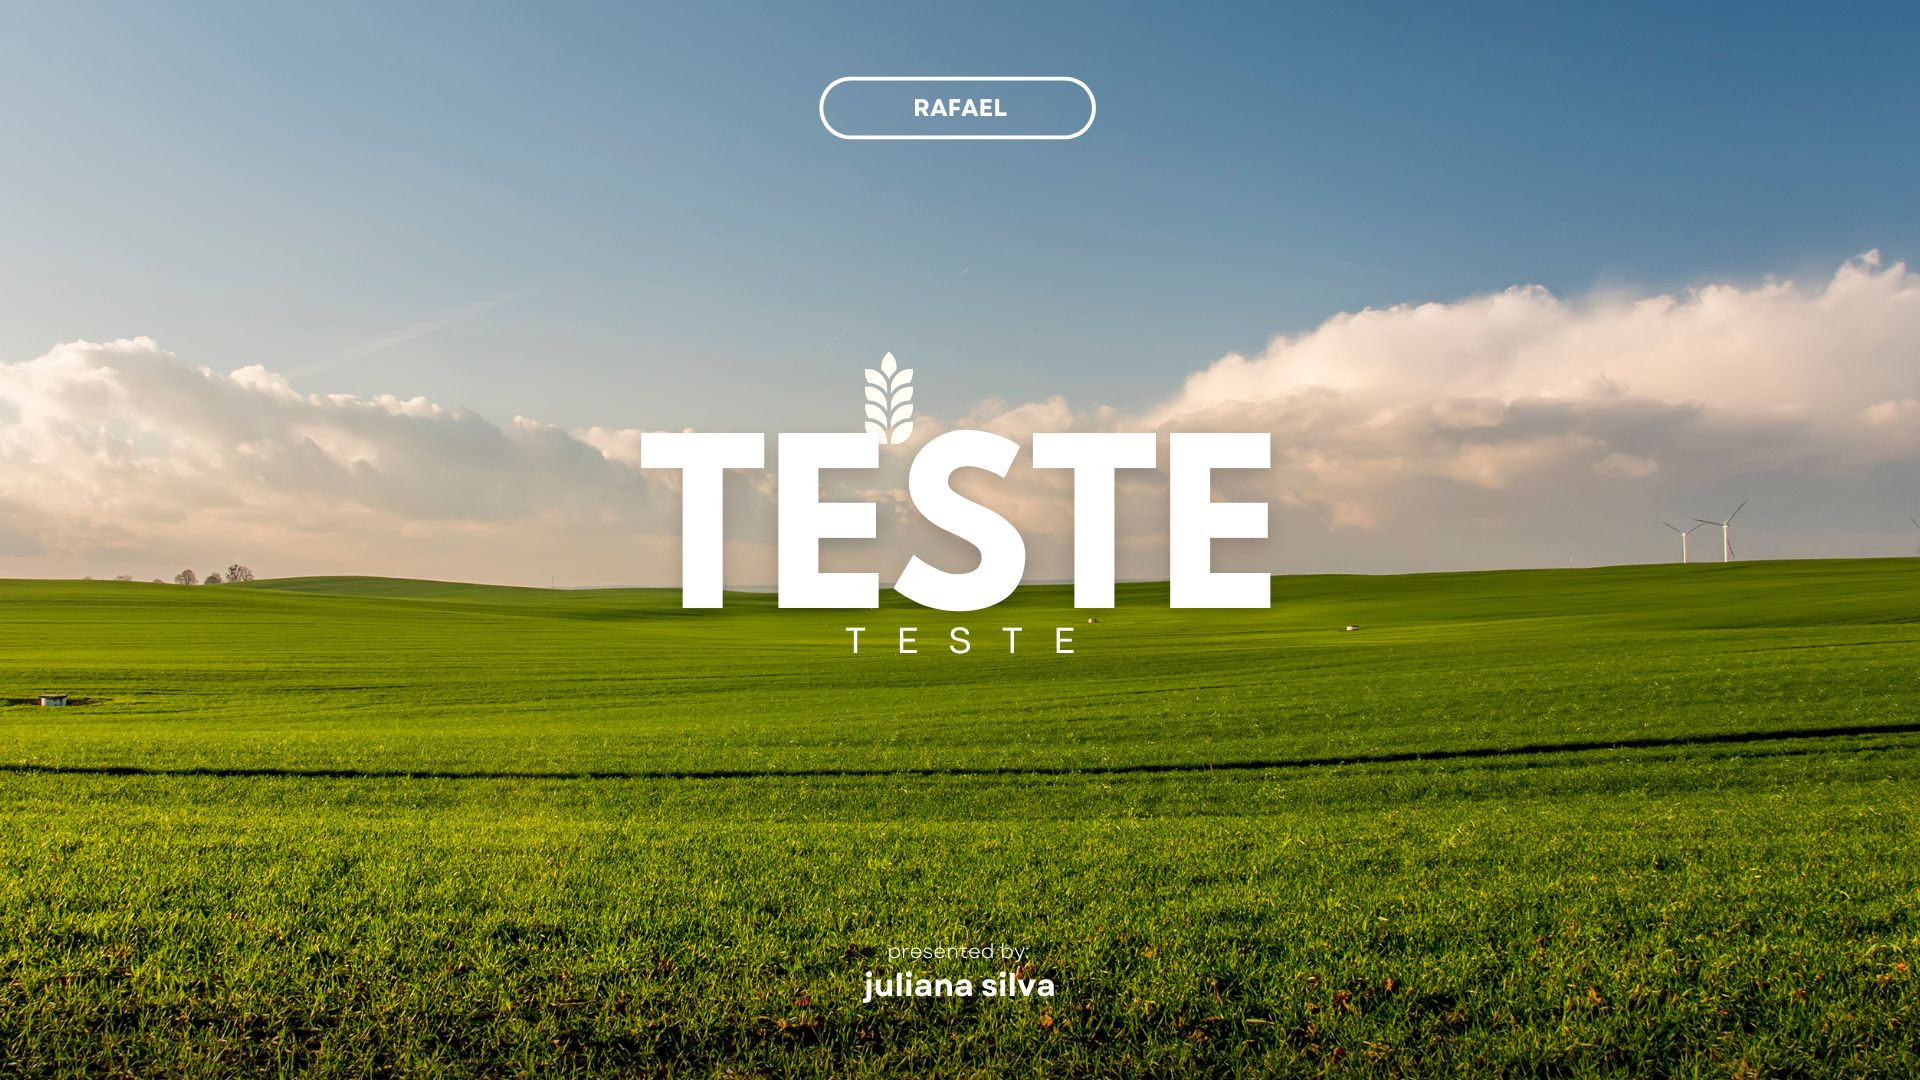
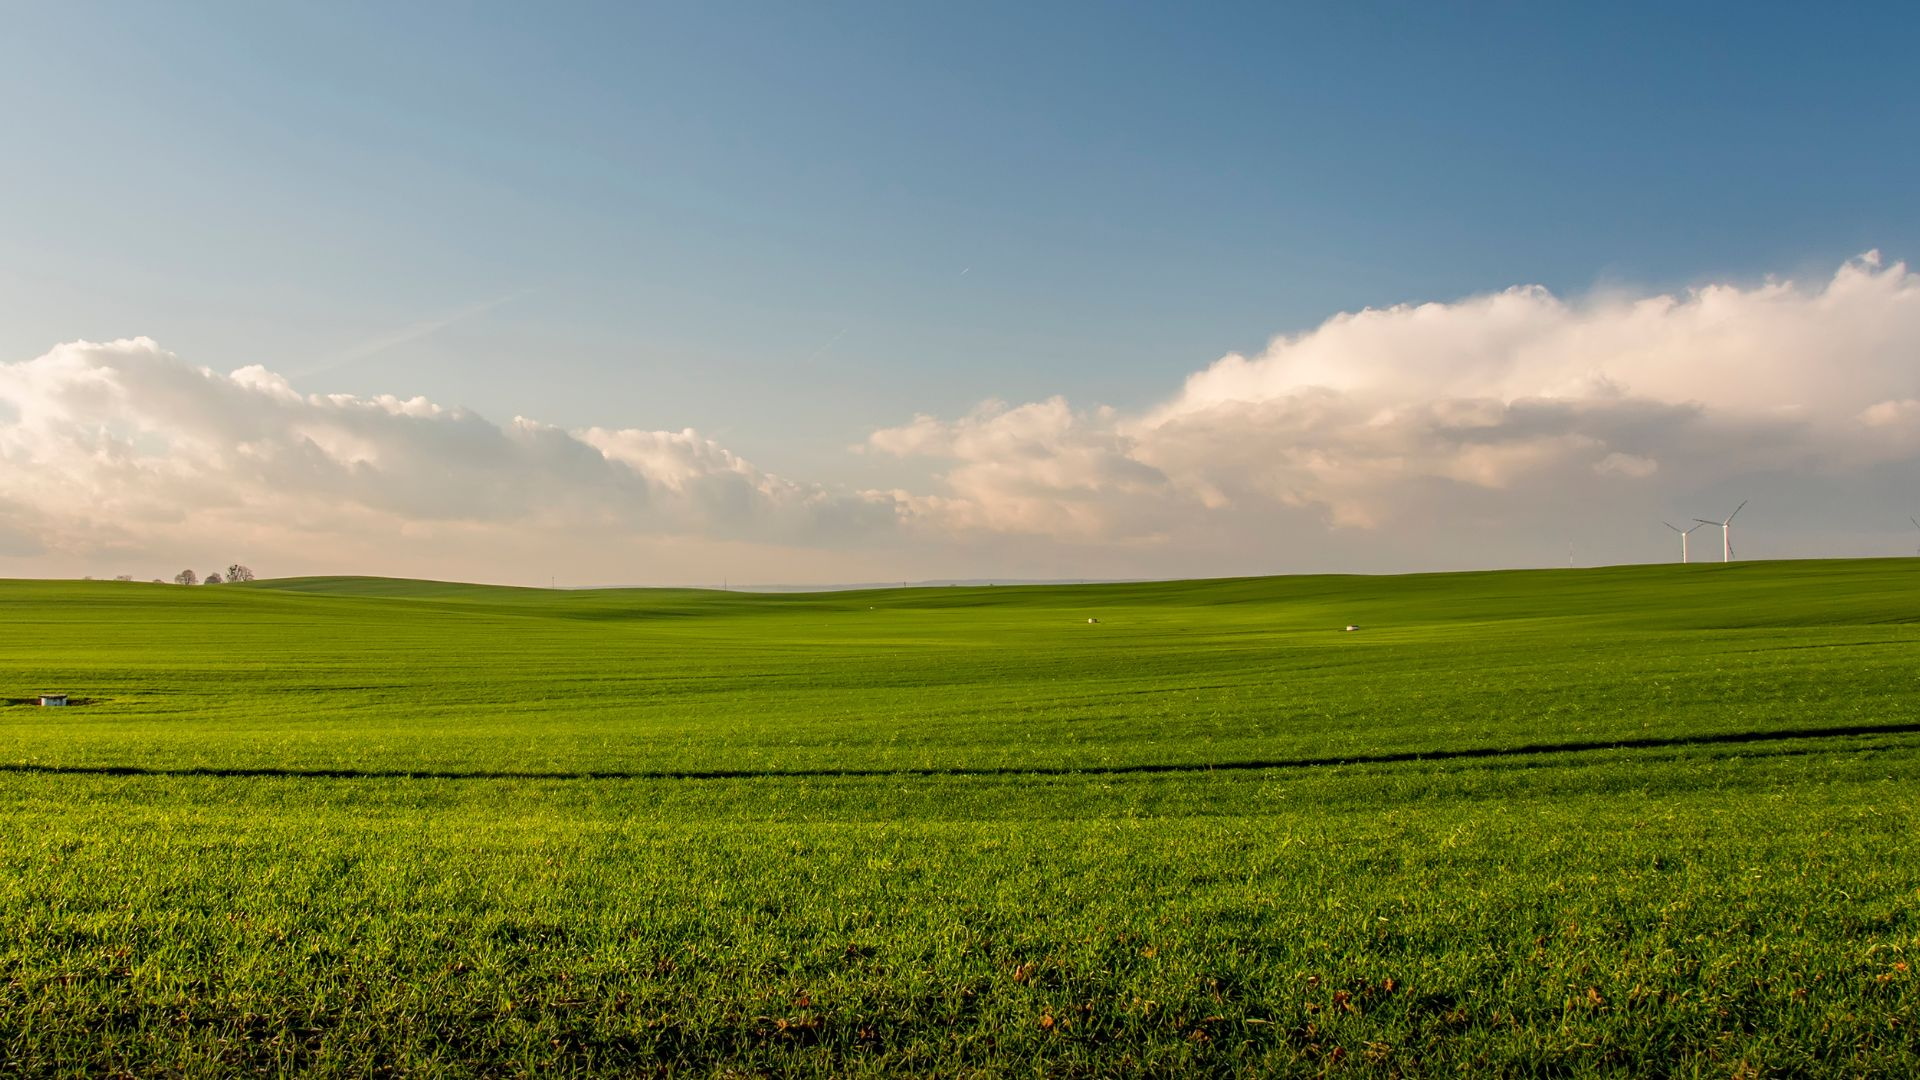
Mudanças
mudei a imagem, adicionei texto e sentido, favicon, deixei mais adptativo para celulares etc....

Changed region(s): [[0.3125, 0.3361, 0.6875, 0.6111], [0.4375, 0.0611, 0.5625, 0.1528], [0.4375, 0.8556, 0.5625, 0.9472]]

diff --git a/style.css b/style.css
@@ -1,34 +1,93 @@
 @charset "UTF-8";
+@import url('https://fonts.googleapis.com/css2?family=Roboto:ital,wght@0,100..900;1,100..900&display=swap');
+@import url('https://fonts.googleapis.com/css2?family=Archivo+Black&display=swap');
+
+:root {
+    --font-titulo: Archivo Black;
+    --font-assunto: Roboto, arial, sans-serif;
+}
+
+* {
+    box-sizing: border-box;
+}
 
 html, body {
     font-family: Arial, Helvetica, sans-serif;
     padding: 0;
     margin: 0;
+    width: 100%;
+    overflow-x: hidden;
 }
 
 header {
     display: flex;
+    flex-direction: column;
+    justify-content: center;        /* Para o conteudo */
+    align-items: center;            /*e para centralizar tudo */
+    text-align: center;
+
     background-image: url(img/Green\ Modern\ Minimalist\ Agrifarm\ Company\ Presentation.jpg);
-    background-position: center center;
-    background-repeat: no-repeat;
-    background-position: fixed;
-    height: 500px;
-    min-width: 500px;
+    background-position: center;
+    background-size: cover;         /*Pra preencher todo o espaço */
+    background-attachment: scroll;
+
+    min-height: 500px;
+    width: 100%;
+    padding: 20px;
+
+
+}
+
+.title {
+    color: white;
+    font-family: var(--font-titulo);
+    font-size: clamp(2rem, 8vw, 4rem);   /* cresce com a tela */
+    margin-bottom: 10px;
+}
+
+.resumo {
+    color: white;
+    font-family: var(--font-assunto);
+    font-weight: bold;
+    font-size: clamp(1rem, 4vw, 1.5rem);
+    max-width: 800px;           /* não deixar texto largos*/
+    margin-bottom: 20px;
 }
 
 .navegacao {
-    display: flex;
-    padding: 20px;
-    gap: 15px;
-    font-size: 20px;
+    display: flex;   
+    justify-content: center;
+    gap: 30px;
+    margin-top: 30px;
+    padding: 0;
 }
 
-li { 
-    list-style-type: none;
-    text-decoration: none;
+.navegacao li {
+    list-style: none;
+    transition: ease-out 0.5s;
 }
 
-a {
+.navegacao a {
     text-decoration: none;
     color: white;
+    font-weight: bold;
+    font-size: 1.2rem;
+    transition: ease-out 0.5s;
+    font-size: 25px;
+}
+
+.navegacao a:hover {
+    color: #4CAF50; 
+}
+
+.navegacao li:hover {
+    transition: ease-out 0.5s;
+    transform: scale(1.2);
+}
+
+hr {
+    margin-top: px;
+    width: 200px;
+    border: 2px solid white;
+    border-radius: 10px;
 }

diff --git a/projeto_agrinho.html b/projeto_agrinho.html
@@ -3,19 +3,37 @@
 <head>
     <meta charset="UTF-8">
     <meta name="viewport" content="width=device-width, initial-scale=1.0">
-    <title>Exemplo</title>
+    <title>Equilíbrio Verde</title>
+    <link rel="shortcut icon" href="img/folha.png" type="image/x-icon">
     <link rel="stylesheet" href="style.css">
 </head>
 <body>
     <header>
+        <h1 class="title">
+            Agro forte, Futuro Sustentável
+        </h1>
+        <p class="resumo">
+            Um olhar sobre como o Paraná está liderando a missão de alimentar o mundo cuidando da nossa própria casa.
+        </p>
         <nav>
             <ul class="navegacao">
-                <li><a href="#home">Home</a></li>
-                <li><a href="#sobre">Sobre</a></li>
+                <li><a href="#home">Início</a></li>
+                <li><a href="#sobre">O tema</a></li>
                 <li><a href="#ideia">ideia</a></li>
                 <li><a href="#ideia">ideia</a></li>
             </ul>
+            <hr>
         </nav>
     </header>
+    <main class="conteudo-principal">
+            <article class="">
+                <h2>
+                    O Conceito de Agro Sustentável
+                </h2>
+                <p>
+                    Ter um agro forte não significa apenas bater recordes de colheita. Significa produzir de forma que o solo continue fértil daqui a 50 anos. O verdadeiro equilíbrio acontece quando o produtor rural entende que a floresta em pé ajuda a regular a chuva que molha a sua plantação. É um ciclo de ajuda mútua: a natureza oferece os recursos, e o agro devolve cuidado e manejo consciente.
+                </p>
+            </article>
+        </main>
 </body>
 </html>
